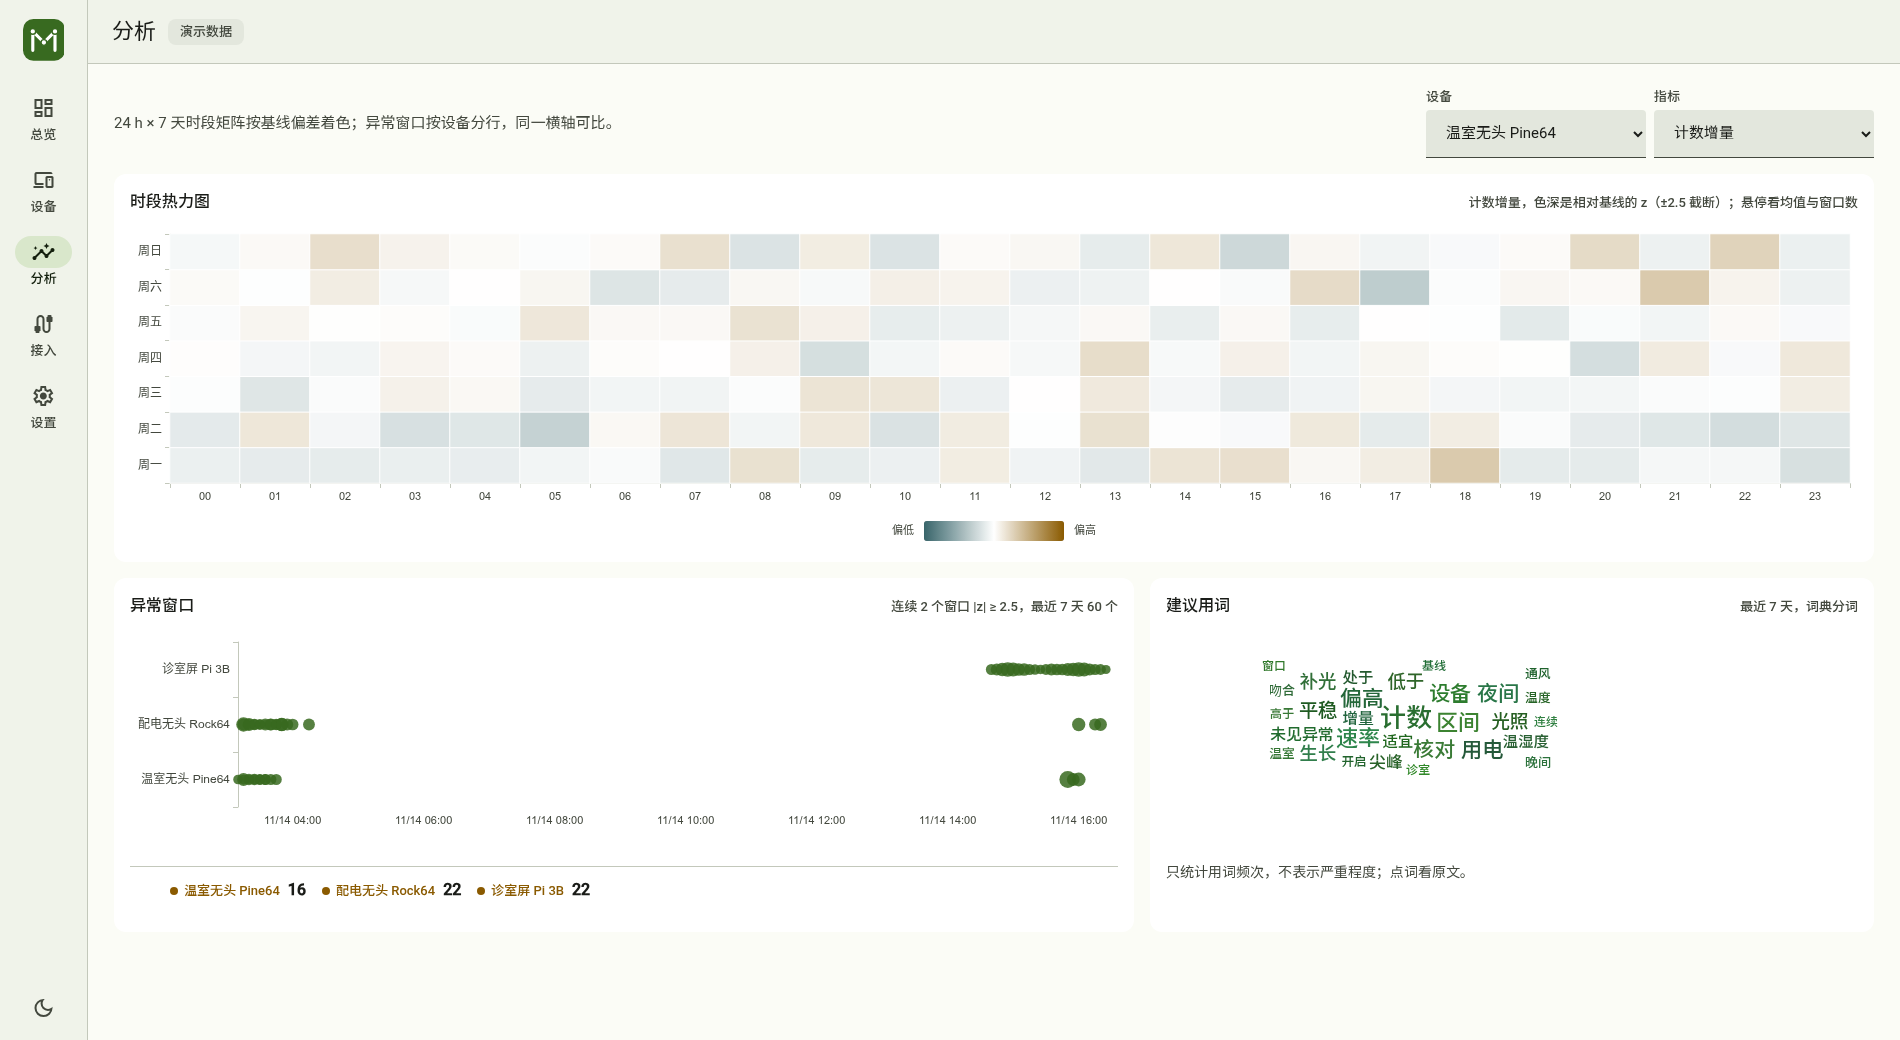
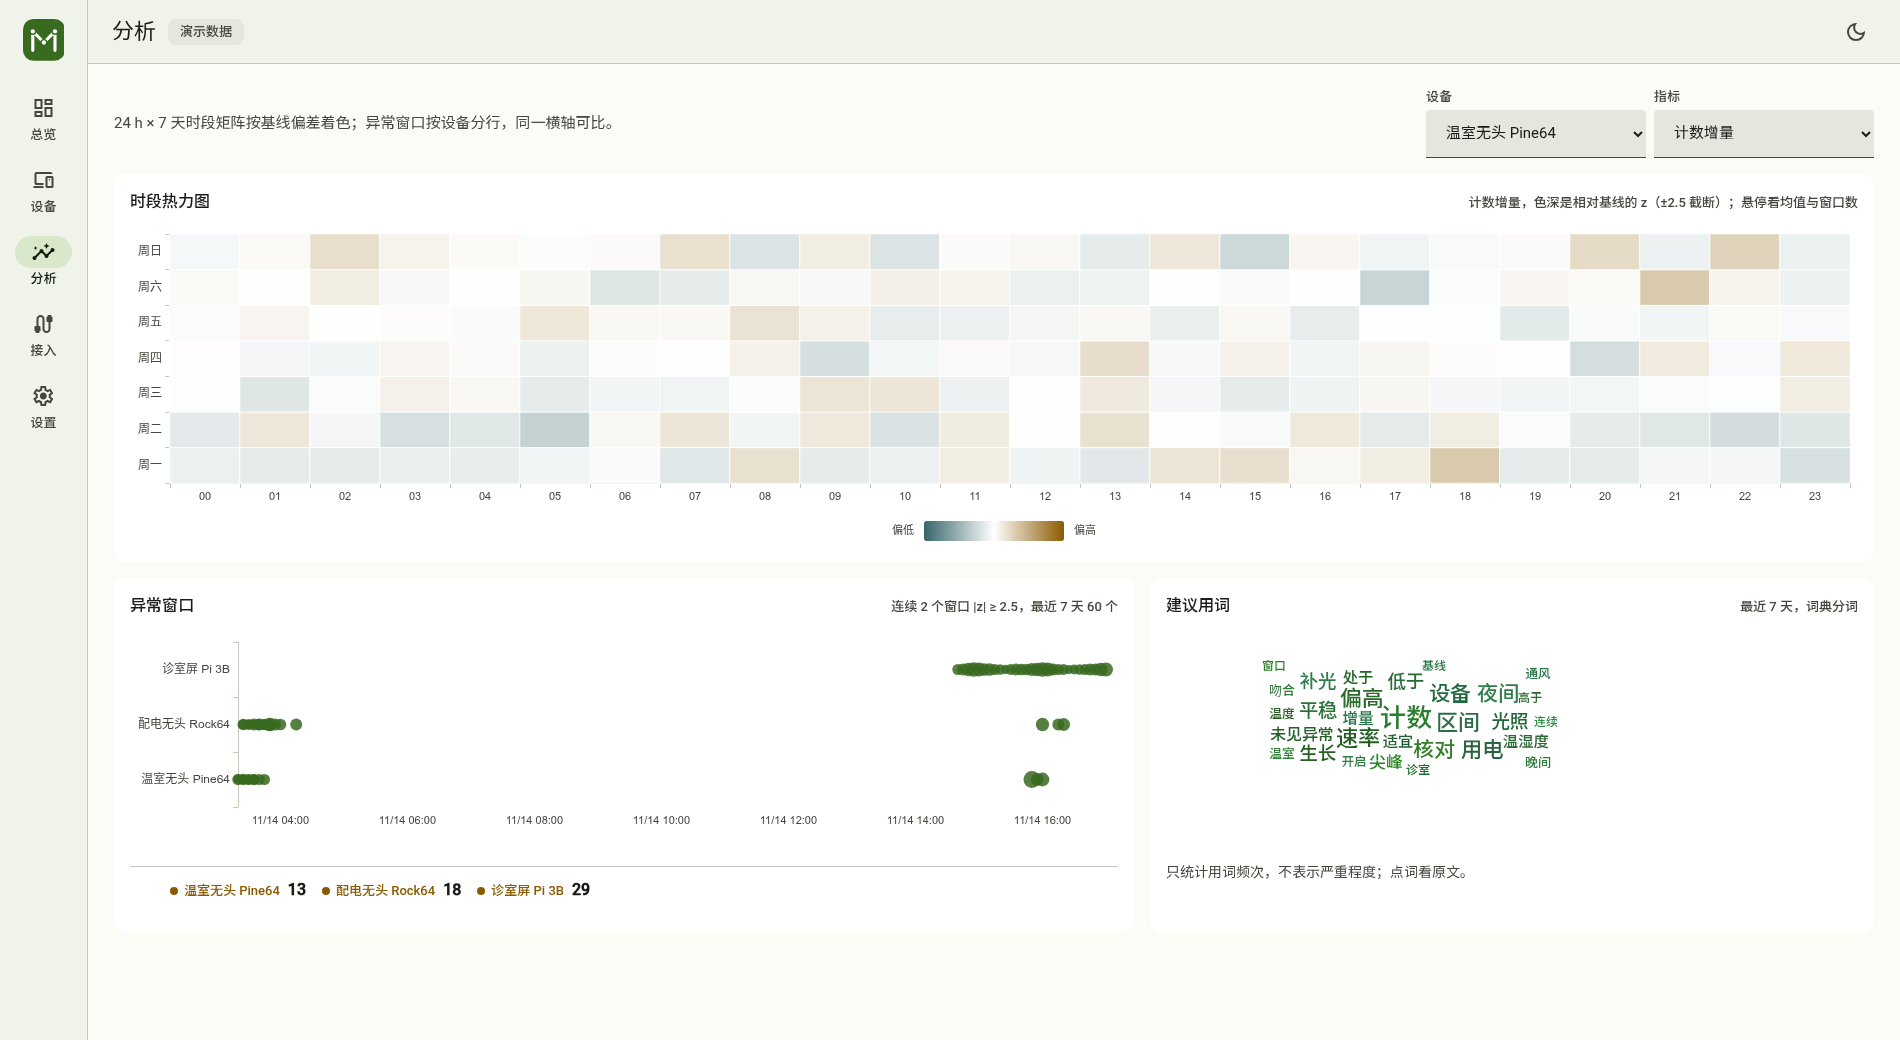
fix(web): 暗色改中性黑底，修 tooltip 尺寸与 7×24 热力图挤字 (#18)
- 暗色面从墨绿 #10130d 换成纯黑 + 中性灰阶：surface #000、卡片 #141414、
  外壳 #0e0e0e、字段 #262626，绿只作为强调色
- 图表 tooltip 被 .chart-fill 的 div{height:100%} 命中，整块拉成全高、
  横跨卡片并盖住相邻卡片。选择器收紧到 ChartBox 根节点，tooltip 自己
  再给 padding/圆角/阴影/confine
- 7×24 热力图 7 行挤在 ~100px 里，两个字的星期名叠在一起：轴上只留
  「日/一/二…」，字号降到 10，卡片高度 180→194
- 「前 24 小时」柱子改用按面/字混出的 muted 色，暗色下不再和背景糊在一起
- 「最近建议」三行压到两行（1 行正文 + 1 行元信息），不再溢出卡片
- 主题切换从 rail 底部移到顶栏右侧（.theme-toggle），smoke 断言点了真会换

diff --git a/web/src/styles/m3.css b/web/src/styles/m3.css
@@ -140,14 +140,32 @@
 
 [data-theme='dark'] {
   color-scheme: dark;
+  /* 中性黑：暗色下不用绿色调的“墨绿底”，面用纯黑到灰阶 */
+  --md-surface: #000000;
+  --md-surface-tint: var(--md-primary);
+  --md-surface-dim: #000000;
+  --md-surface-bright: #2b2b2b;
+  --md-surface-container-lowest: #0a0a0a;
+  --md-surface-container-low: #141414;
+  --md-surface-container: #0e0e0e;
+  --md-surface-container-high: #1e1e1e;
+  --md-surface-container-highest: #262626;
+  --md-surface-variant: #2a2a2a;
+  --md-on-surface: #eaeaea;
+  --md-on-surface-variant: #b8b8b8;
+  --md-outline: #8f8f8f;
+  --md-outline-variant: #3a3a3a;
+  --md-inverse-surface: #eaeaea;
+  --md-inverse-on-surface: #1a1a1a;
+
   --md-primary: #9cd67e;
   --md-on-primary: #0a3900;
   --md-primary-container: #205107;
   --md-on-primary-container: #b7f397;
-  --md-secondary: #bdcbb0;
-  --md-on-secondary: #283421;
-  --md-secondary-container: #3e4b36;
-  --md-on-secondary-container: #d9e7cb;
+  --md-secondary: #c3c8bb;
+  --md-on-secondary: #2a2f27;
+  --md-secondary-container: #343a31;
+  --md-on-secondary-container: #dfe4d7;
   --md-tertiary: #a0cfd4;
   --md-on-tertiary: #00363a;
   --md-tertiary-container: #1f4d51;
@@ -157,31 +175,14 @@
   --md-error-container: #93000a;
   --md-on-error-container: #ffdad6;
 
-  --md-surface: #10130d;
-  --md-on-surface: #e3e4dc;
-  --md-surface-tint: var(--md-primary);
-  --md-surface-dim: #10130d;
-  --md-surface-bright: #373a33;
-  --md-surface-container-lowest: #0b0e08;
-  --md-surface-container-low: #1a1d17;
-  --md-surface-container: #151811;
-  --md-surface-container-high: #23271e;
-  --md-surface-container-highest: #2d3128;
-  --md-surface-variant: #43483e;
-  --md-on-surface-variant: #c3c8bb;
-  --md-outline: #8d9286;
-  --md-outline-variant: #43483e;
-  --md-inverse-surface: #e3e4dc;
-  --md-inverse-on-surface: #2f312c;
-
   --md-ok: #9cd67e;
-  --md-ok-container: #22301a;
+  --md-ok-container: #1d2a16;
   --md-on-ok-container: #c9eeb5;
   --md-notice: #e0b05a;
-  --md-notice-container: #33280f;
+  --md-notice-container: #2c2410;
   --md-on-notice-container: #f6dda9;
   --md-critical: #ffb4ab;
-  --md-critical-container: #3b1b18;
+  --md-critical-container: #351513;
   --md-on-critical-container: #ffdad6;
 
   --md-chart-1: #9cd67e;
@@ -193,7 +194,7 @@
   --md-chart-cool: var(--md-tertiary);
   --md-chart-warm: var(--md-notice);
 
-  --md-elev-1: 0 1px 2px rgba(0, 0, 0, 0.3), 0 1px 3px 1px rgba(0, 0, 0, 0.15);
+  --md-elev-1: 0 1px 2px rgba(0, 0, 0, 0.6), 0 1px 3px 1px rgba(0, 0, 0, 0.4);
 }
 
 /* ---------------------------------------------------------------- 基础 */

diff --git a/web/src/views/Overview.vue b/web/src/views/Overview.vue
@@ -139,13 +139,14 @@ const heatOption = computed(() => {
   const cells = heat.value?.cells || []
   const days = ['周一', '周二', '周三', '周四', '周五', '周六', '周日']
   return {
-    grid: { left: 4, right: 8, top: 6, bottom: 22, containLabel: true },
+    grid: { left: 4, right: 8, top: 2, bottom: 18, containLabel: true },
     tooltip: {
       formatter: (p) => `${days[p.value[1]]} ${String(p.value[0]).padStart(2, '0')}:00<br/>z ${p.value[2].toFixed(2)}`,
     },
     xAxis: { type: 'category', data: Array.from({ length: 24 }, (_, i) => String(i).padStart(2, '0')),
-             axisLabel: { fontSize: 12, color: t.axis, interval: 3 }, axisLine: { show: false }, axisTick: { show: false } },
-    yAxis: { type: 'category', data: days, axisLabel: { fontSize: 12, color: t.axis, interval: 0 },
+             axisLabel: { fontSize: 10, color: t.axis, interval: 3 }, axisLine: { show: false }, axisTick: { show: false } },
+    // 7 行挤在 ~100px 里，两个字会叠在一起；轴上只留「日/一/二」，完整星期名放 tooltip
+    yAxis: { type: 'category', data: days.map((d) => d[1]), axisLabel: { fontSize: 10, color: t.axis, interval: 0 },
              axisLine: { show: false }, axisTick: { show: false } },
     visualMap: { show: false, min: -2.5, max: 2.5, inRange: { color: t.heatZ } },
     series: [{
@@ -198,7 +199,7 @@ const deltaOption = computed(() => {
       { name: '近 24 小时', type: 'bar', data: rows.map((r) => r.cur), barWidth: '58%',
         itemStyle: { color: t.line, borderRadius: [4, 4, 0, 0] } },
       { name: '前 24 小时', type: 'bar', data: rows.map((r) => r.prev), barWidth: '58%',
-        itemStyle: { color: t.split, borderRadius: [4, 4, 0, 0] } },
+        itemStyle: { color: t.muted, borderRadius: [4, 4, 0, 0] } },
     ],
   }
 })
@@ -381,15 +382,15 @@ const adviceRows = computed(() => {
   flex-direction: column;
   min-width: 0;
 }
-.card-b { height: 184px; }
+.card-b { height: 170px; }
 .card-c { height: 194px; }
-.card-d { height: 180px; }
+.card-d { height: 194px; }
 .card-e { height: 144px; }
 .chart-fill {
   flex: 1;
   min-height: 0;
 }
-.chart-fill :deep(div) {
+.chart-fill > :deep(div) {
   height: 100%;
 }
 
@@ -423,11 +424,11 @@ const adviceRows = computed(() => {
   display: flex;
   align-items: flex-start;
   gap: var(--space-2);
-  padding: var(--space-2) 0;
+  padding: 4px 0;
 }
 .advice-text {
   display: -webkit-box;
-  -webkit-line-clamp: 2;
+  -webkit-line-clamp: 1;
   -webkit-box-orient: vertical;
   overflow: hidden;
   font: var(--md-body-small);

diff --git a/web/src/App.vue b/web/src/App.vue
@@ -45,16 +45,6 @@ onMounted(async () => {
         <span>{{ item.label }}</span>
       </RouterLink>
 
-      <span class="rail-spacer"></span>
-
-      <button
-        class="md-btn md-btn--icon"
-        :aria-label="theme === 'dark' ? '切到亮色' : '切到暗色'"
-        :title="theme === 'dark' ? '切到亮色' : '切到暗色'"
-        @click="toggleTheme"
-      >
-        <Icon :name="theme === 'dark' ? 'light_mode' : 'dark_mode'" />
-      </button>
     </nav>
 
     <div class="main">
@@ -63,6 +53,14 @@ onMounted(async () => {
         <span v-if="demo" class="md-chip" role="status">演示数据</span>
         <div class="appbar-actions">
           <slot name="appbar"></slot>
+          <button
+            class="md-btn md-btn--icon theme-toggle"
+            :aria-label="theme === 'dark' ? '切到亮色' : '切到暗色'"
+            :title="theme === 'dark' ? '切到亮色' : '切到暗色'"
+            @click="toggleTheme"
+          >
+            <Icon :name="theme === 'dark' ? 'light_mode' : 'dark_mode'" />
+          </button>
         </div>
       </header>
 

diff --git a/web/src/components/ChartBox.vue b/web/src/components/ChartBox.vue
@@ -24,10 +24,13 @@ function apply() {
     ? {
         ...base,
         tooltip: {
-          backgroundColor: token('--md-surface-container-high', '#282b25'),
-          borderColor: token('--md-outline-variant', '#43483e'),
+          backgroundColor: token('--md-surface-container-high', '#1e1e1e'),
+          borderColor: token('--md-outline-variant', '#3a3a3a'),
           borderWidth: 1,
-          textStyle: { fontSize: 13, color: token('--md-on-surface', '#e3e3dc') },
+          padding: [8, 12],
+          confine: true,
+          textStyle: { fontSize: 12, color: token('--md-on-surface', '#eaeaea'), lineHeight: 20 },
+          extraCssText: 'border-radius: 10px; box-shadow: 0 6px 16px rgba(0, 0, 0, 0.18);',
           ...base.tooltip,
         },
       }

diff --git a/web/src/lib/theme.js b/web/src/lib/theme.js
@@ -70,6 +70,8 @@ export function chartTokens(mode) {
       i <= 3 ? mix(cool, surface, i / 3) : mix(surface, warm, (i - 3) / 3),
     ),
     border: surface,
+    // 次要序列（“前 24 小时”这类对比柱）：暗色下 outline-variant 太黑，按面与字混一点
+    muted: mix(surface, read('--md-on-surface') || '#1a1c18', theme.value === 'dark' ? 0.3 : 0.16),
     palette: [1, 2, 3, 4, 5, 6].map((i) => read(`--md-chart-${i}`) || line),
     word: { sat: [38, 56], light: theme.value === 'dark' ? [62, 80] : [24, 36] },
   }
